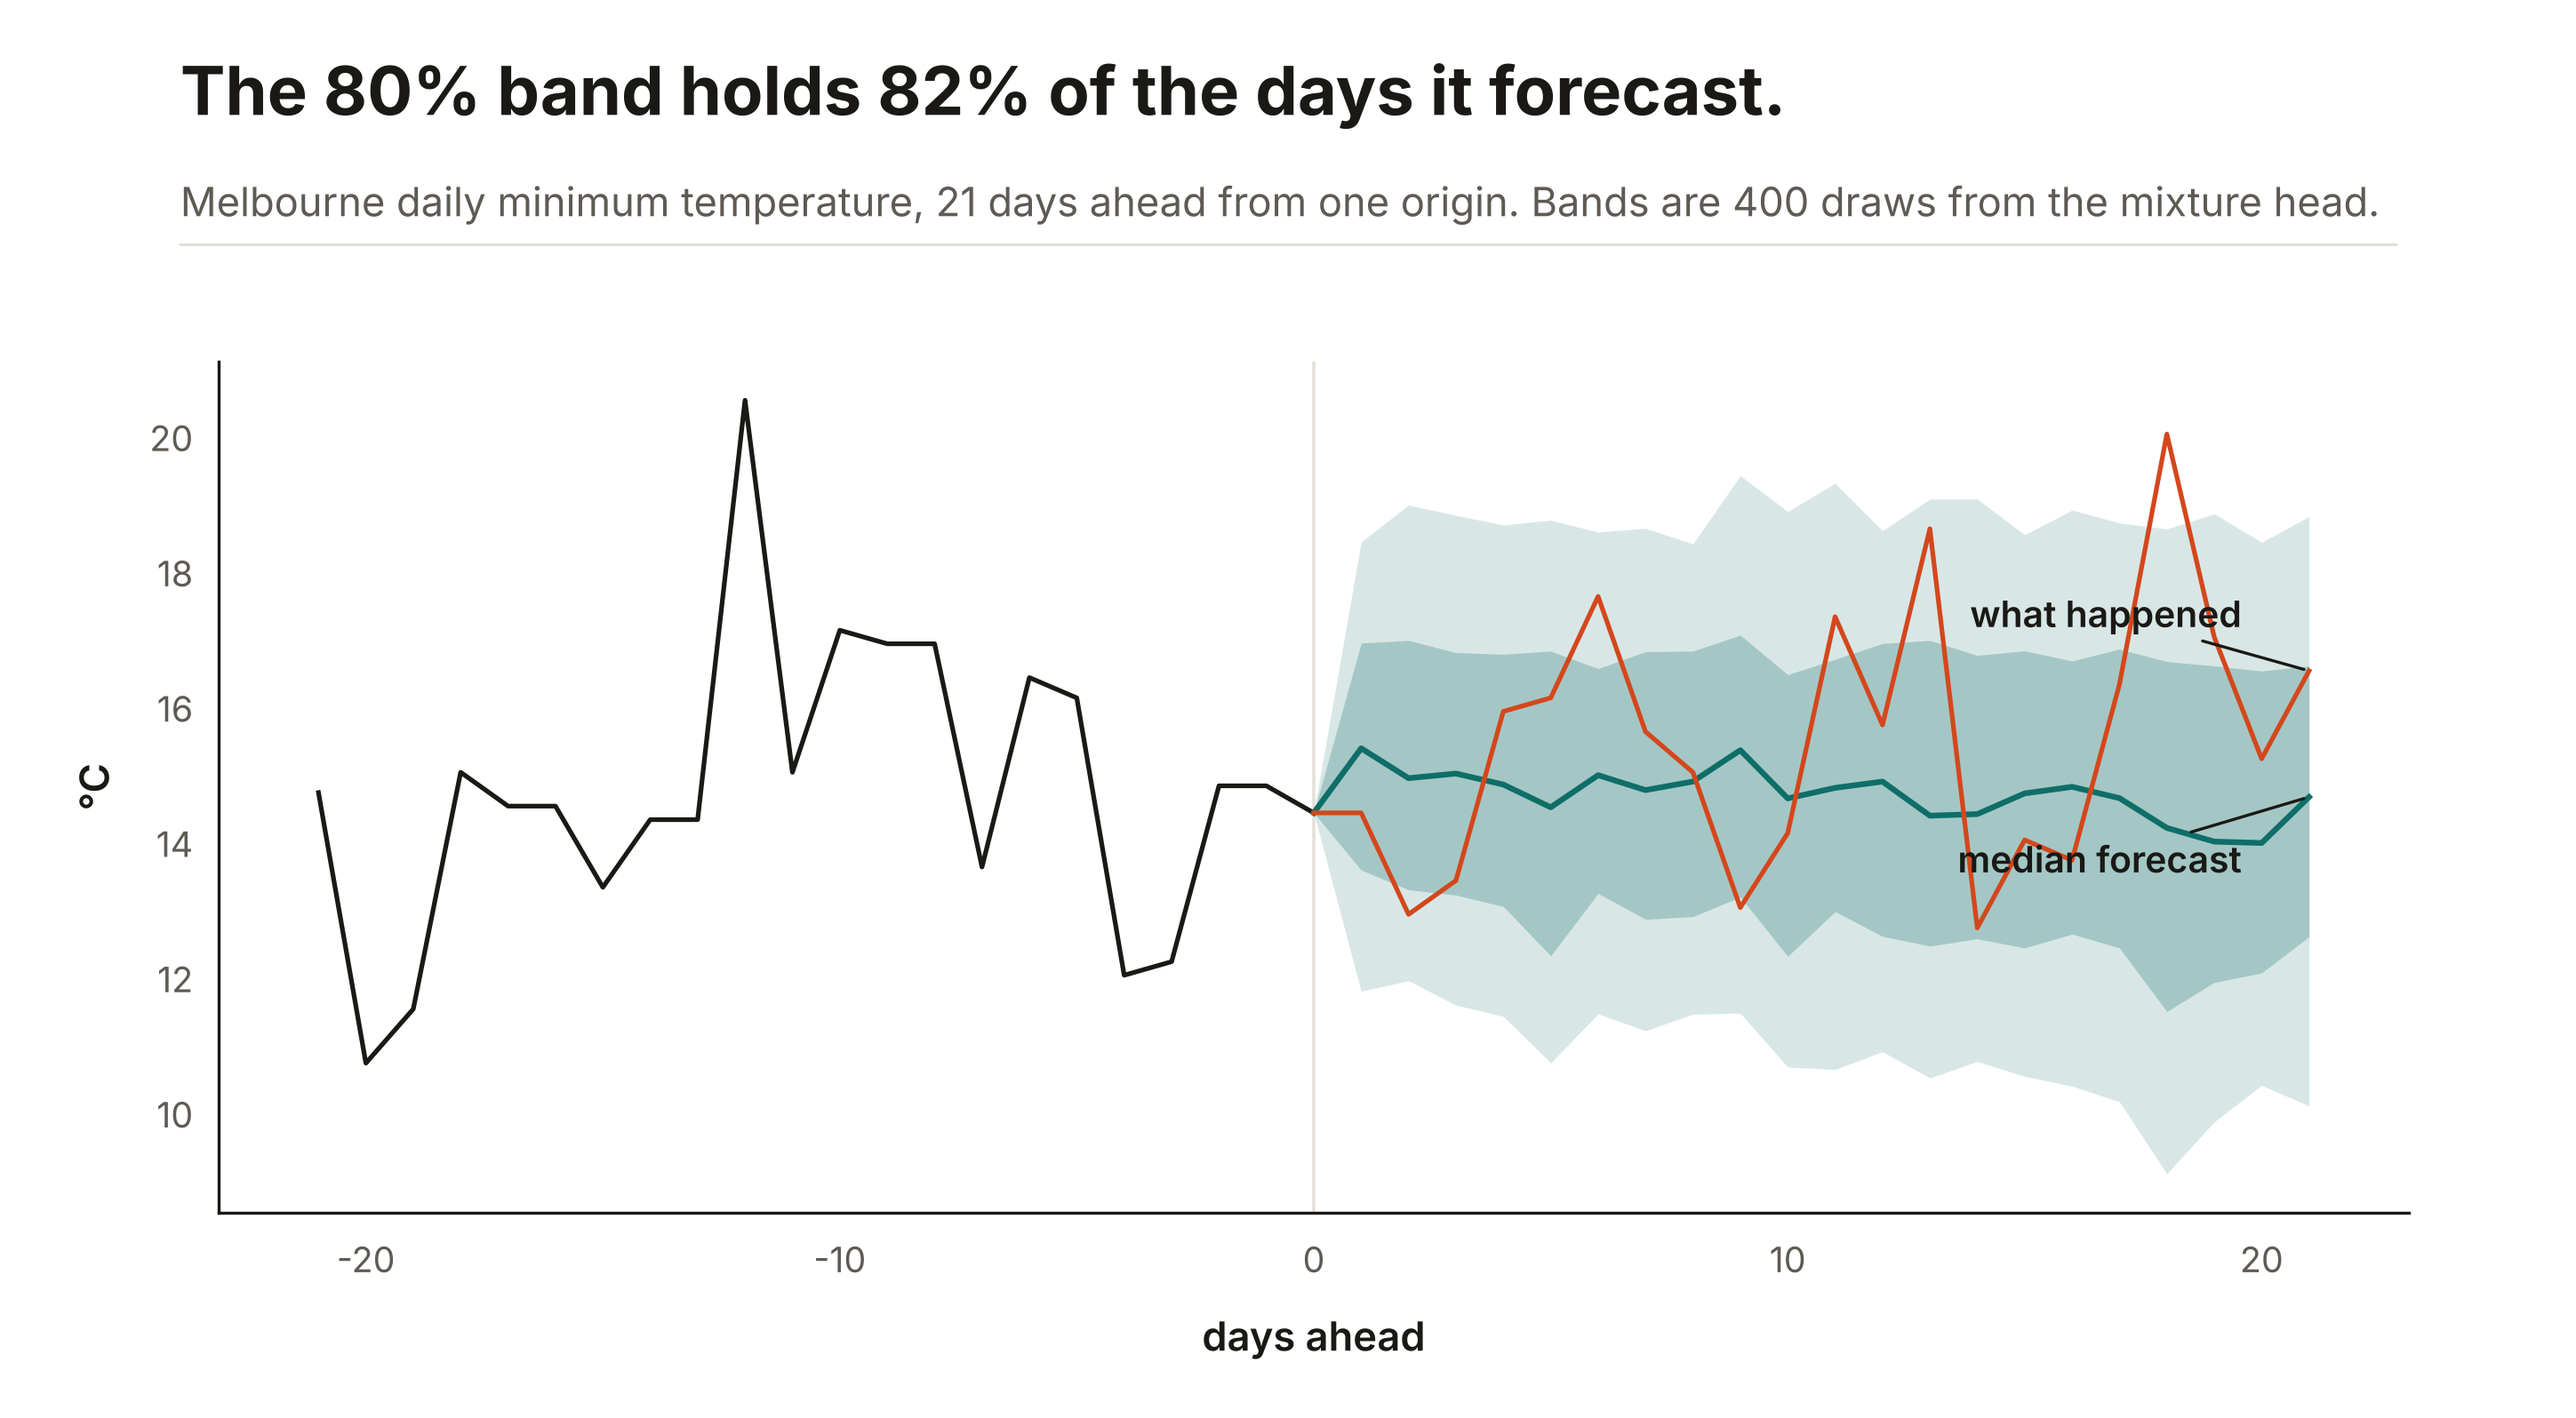
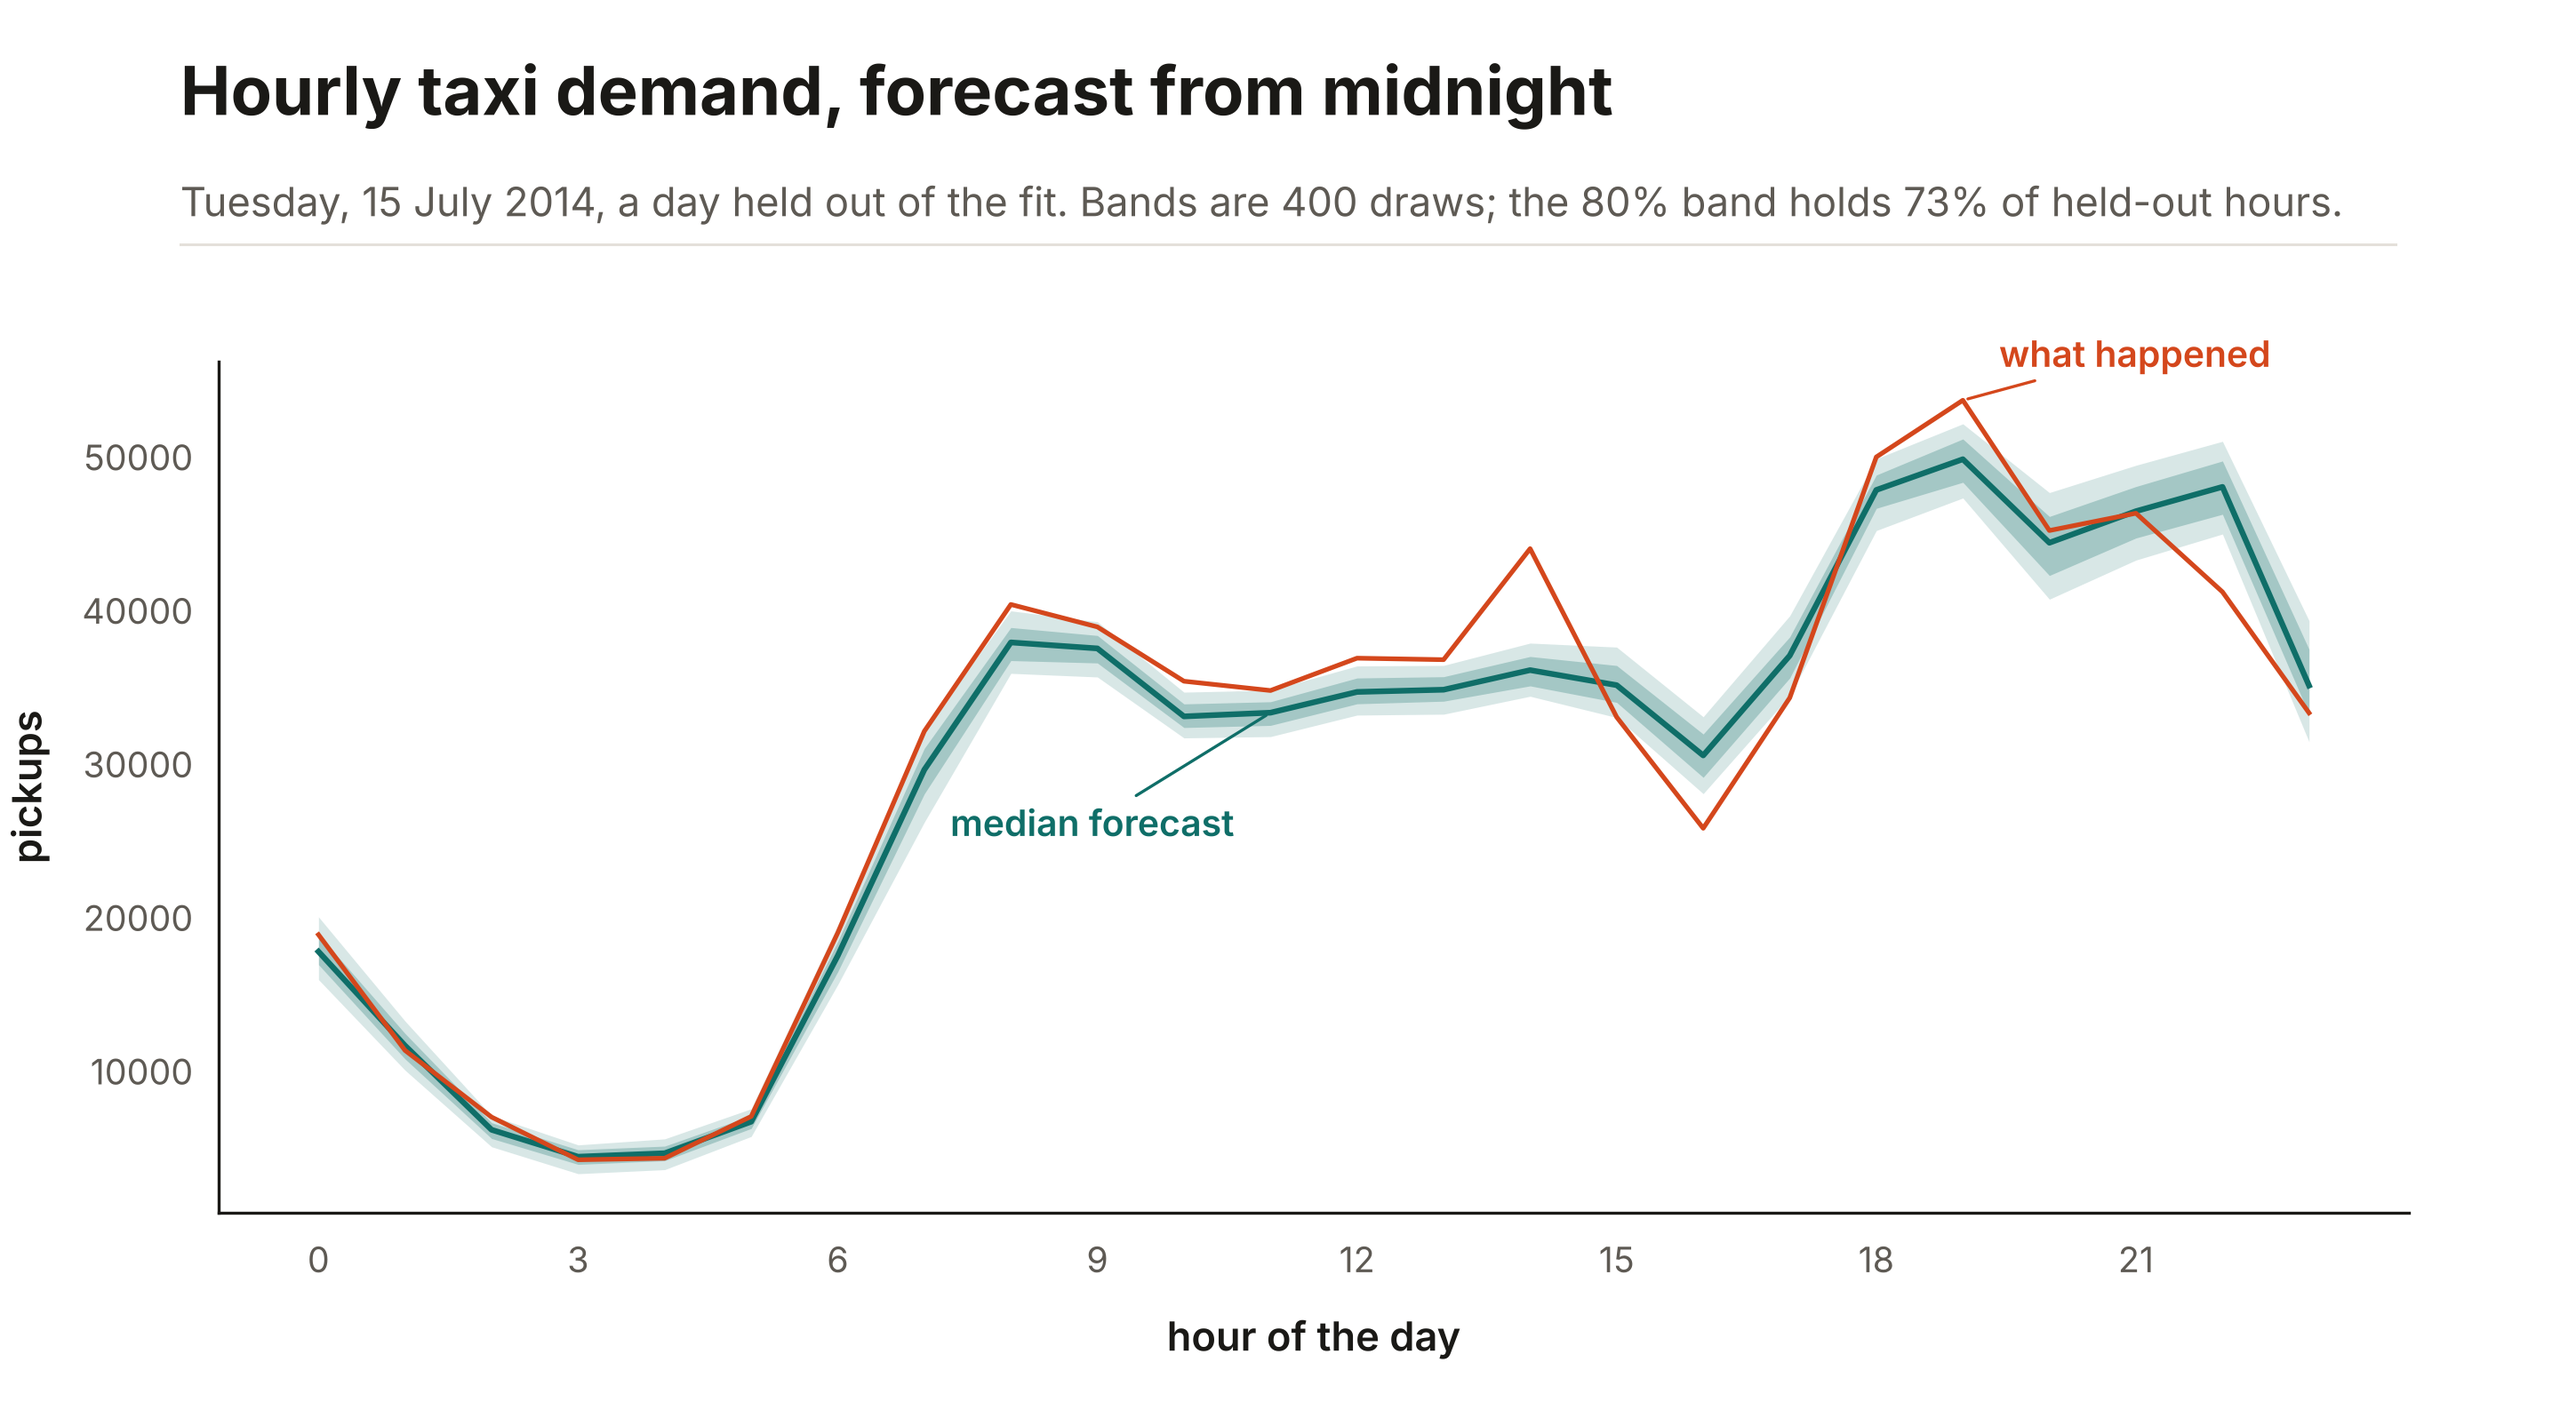
Forecast a whole day of taxi demand instead of a flat temperature fan
The Melbourne 21-day fan was almost a straight line, which showed the
interval but not the model tracking anything. Replace it with hourly NYC
taxi pickups: each row is one hour that reads the previous day's 24 hours,
the same hour a week earlier, and the calendar, so a whole day is forecast
from midnight by one fit. Whole days are held out at random rather than a
trailing split, and the calendar columns are declared cyclic so hours and
days near each other share what the model learns.

Over 34 held-out days the median is off by 2,678 pickups against 3,806 for
the same hour a week earlier, and the 80% interval holds 73% of held-out
hours.

Claude-Session: https://claude.ai/code/session_01Ut1RAijFMiihnm8CQ4vrX3

diff --git a/examples/readme_figures.py b/examples/readme_figures.py
@@ -3,10 +3,14 @@
 ``tip-heads.png``: the average predictive density of four heads on held-out
 NYC taxi tips, over the tips themselves. ``taxi-zones.png``: the learned
 pickup-zone embedding, projected to two dimensions and colored by the
-median trip length from that zone.
+median trip length from that zone. ``fare-heads.png``: four heads on taxi
+fare under three conditions. ``forecast-fan.png``: hourly NYC taxi demand
+over a day held out of the fit. ``outcome-embeddings.png``: pickup-zone
+vectors beside the tip probability they produce.
 All reuse the tables and the fit settings of ``benchmark_readme.py``.
 
     JAX_PLATFORMS=cpu python examples/readme_figures.py
+    JAX_PLATFORMS=cpu python examples/readme_figures.py fan
 """
 
 from __future__ import annotations
@@ -284,61 +288,101 @@ def fare_heads() -> None:
     style._save(fig, "fare-heads.png")
 
 
-FAN_LOOKBACK = 60
-FAN_HORIZON = 21
+FAN_CYCLICAL = {"hour": 24.0, "weekday": 7.0, "day_of_year": 365.25}
+FAN_TEST_SHARE = 6
+
+
+def taxi_demand_rows():
+    """Hourly NYC taxi pickups as a supervised table: a full day forecast from midnight.
+
+    Every row is one hour of one day. The features are the twenty-four hours of the
+    previous day, the same hour a week earlier, and the calendar, so one fit covers
+    all twenty-four steps and nothing after midnight of the forecast day is read.
+    """
+    import pandas as pd
+
+    frame = pd.read_csv(bench._path("nyc_taxi.csv"), parse_dates=["timestamp"])
+    series = frame.set_index("timestamp")["value"].resample("1h").sum()
+    values = series.to_numpy(np.float64)
+    stamps = series.index
+
+    rows, targets, days, hours = [], [], [], []
+    for i in range(168, len(values)):
+        start = i - stamps[i].hour
+        if start - 168 < 0:
+            continue
+        rows.append(np.concatenate([values[start - 24 : start], [values[i - 168]]]))
+        targets.append(values[i])
+        days.append(stamps[i].normalize())
+        hours.append(float(stamps[i].hour))
+
+    table = np.asarray(rows)
+    days = pd.DatetimeIndex(days)
+    columns = {f"lag{24 - k}": table[:, k] for k in range(24)}
+    columns["same_hour_last_week"] = table[:, 24]
+    columns["hour"] = np.asarray(hours)
+    columns["weekday"] = days.dayofweek.to_numpy(np.float64)
+    columns["day_of_year"] = days.dayofyear.to_numpy(np.float64)
+    return pd.DataFrame(columns), np.asarray(targets), days
 
 
 def forecast_fan() -> None:
-    """A 21-day fan from one origin, beside the 80% band's coverage over every test origin."""
+    """A 24-hour fan over one held-out day, beside the 80% band's coverage over every held-out day."""
     import pandas as pd
 
-    from ashlar import ASRForecaster
+    from ashlar import tabm_piecewise
 
-    values = pd.read_csv(bench._path("temperatures.csv"))["Temp"].to_numpy(np.float64)
-    cut = int(len(values) * 0.8)
-    model = ASRForecaster(lookback=FAN_LOOKBACK, horizon=FAN_HORIZON, head="mixture", random_state=0)
-    model.fit(values[:cut])
+    frame, y, days = taxi_demand_rows()
+    calendar = days.unique()
+    rng = np.random.default_rng(0)
+    chosen = rng.choice(calendar, size=len(calendar) // FAN_TEST_SHARE, replace=False)
+    held_out = set(pd.DatetimeIndex(chosen))
+    mask = np.array([day in held_out for day in days])
 
-    origins = np.arange(cut, len(values) - FAN_HORIZON)
-    histories = np.stack([values[origin - FAN_LOOKBACK : origin] for origin in origins])
-    truths = np.stack([values[origin : origin + FAN_HORIZON] for origin in origins])
-    draws = np.asarray(model.sample(histories, 0, n=400))
+    model = tabm_piecewise(task="mixture", cyclical=FAN_CYCLICAL, random_state=0)
+    model.fit(frame[~mask], y[~mask])
+    draws = np.asarray(model.sample(frame[mask], n=400, seed=0))
     low, high = np.percentile(draws, [10, 90], axis=0)
-    covered = float(np.mean((truths >= low) & (truths <= high)))
-    width = float(np.mean(high - low))
-    print(f"coverage_80 {covered:.4f} mean_width {width:.3f}", flush=True)
+    truth = y[mask]
+    median = np.median(draws, axis=0)
+    covered = float(np.mean((truth >= low) & (truth <= high)))
+    naive = frame[mask]["same_hour_last_week"].to_numpy(np.float64)
+    print(
+        f"test_days {len(held_out)} rows {int(mask.sum())} coverage_80 {covered:.4f} "
+        f"corr {np.corrcoef(median, truth)[0, 1]:.3f} MAE {np.mean(np.abs(median - truth)):.0f} "
+        f"seasonal_naive_MAE {np.mean(np.abs(naive - truth)):.0f}",
+        flush=True,
+    )
 
-    pick = int(np.argmax(origins >= cut + 400))
-    fan = draws[:, pick, :]
-    days = np.arange(1, FAN_HORIZON + 1)
+    # One held-out day, drawn in order: the twenty-four hours as the model saw them from midnight.
+    test_days = days[mask]
+    swing = {day: float(np.ptp(truth[test_days == day])) for day in sorted(held_out)}
+    full = [day for day in sorted(held_out) if int(np.sum(test_days == day)) == 24]
+    pick = max(full, key=lambda day: swing[day])
+    where = np.flatnonzero(test_days == pick)
+    order = np.argsort(frame[mask]["hour"].to_numpy()[where])
+    where = where[order]
+    fan = draws[:, where]
+
+    hours = np.arange(24)
     fig, ax = style._chart(
-        f"The 80% band holds {covered:.0%} of the days it forecast.",
-        "Melbourne daily minimum temperature, 21 days ahead from one origin. Bands are 400 draws from the mixture head.",
+        "Hourly taxi demand, forecast from midnight",
+        f"{pick:%A, %-d %B %Y}, a day held out of the fit. Bands are 400 draws; "
+        f"the 80% band holds {covered:.0%} of held-out hours.",
         height=7.6,
     )
-    past = np.arange(-21, 1)
-    ax.plot(past, values[origins[pick] - 21 : origins[pick] + 1], color=style.INK, linewidth=1.8, zorder=4)
-    # The fan starts at the last observed day, so the bands leave the history rather than float beside it.
-    last = float(values[origins[pick]])
-    joined = np.concatenate([[0], days])
     for lo, hi, alpha in ((10, 90, 0.16), (25, 75, 0.26)):
         band_low, band_high = np.percentile(fan, [lo, hi], axis=0)
-        ax.fill_between(
-            joined,
-            np.concatenate([[last], band_low]),
-            np.concatenate([[last], band_high]),
-            color=style.TEAL,
-            alpha=alpha,
-            linewidth=0,
-            zorder=2,
-        )
-    ax.plot(joined, np.concatenate([[last], np.median(fan, axis=0)]), color=style.TEAL, linewidth=2.2, zorder=5)
-    ax.plot(joined, np.concatenate([[last], truths[pick]]), color=style.CLAY, linewidth=1.8, zorder=6)
-    style._callout(ax, (days[-1], truths[pick][-1]), -26, 22, "what happened", ha="right")
-    style._callout(ax, (days[-1], float(np.median(fan, axis=0)[-1])), -26, -24, "median forecast", ha="right")
-    ax.set_xlabel("days ahead", fontproperties=style.AXIS, color=style.INK, labelpad=12)
-    ax.set_ylabel("°C", fontproperties=style.AXIS, color=style.INK, labelpad=12)
-    ax.axvline(0, color=style.HAIR, linewidth=1.2, zorder=1)
+        ax.fill_between(hours, band_low, band_high, color=style.TEAL, alpha=alpha, linewidth=0, zorder=2)
+    ax.plot(hours, np.median(fan, axis=0), color=style.TEAL, linewidth=2.2, zorder=5)
+    ax.plot(hours, truth[where], color=style.CLAY, linewidth=1.8, zorder=6)
+    peak = int(np.argmax(truth[where]))
+    style._callout(ax, (hours[peak], float(truth[where][peak])), 14, 18, "what happened", style.CLAY)
+    median_day = np.median(fan, axis=0)
+    style._callout(ax, (hours[11], float(median_day[11])), -14, -34, "median forecast", style.TEAL, ha="right", va="top")
+    ax.set_xlabel("hour of the day", fontproperties=style.AXIS, color=style.INK, labelpad=12)
+    ax.set_ylabel("pickups", fontproperties=style.AXIS, color=style.INK, labelpad=12)
+    ax.set_xticks(np.arange(0, 24, 3))
     style._save(fig, "forecast-fan.png")
 
 

diff --git a/examples/benchmark_readme.py b/examples/benchmark_readme.py
@@ -62,6 +62,7 @@ SOURCES = {
     "adult.csv": f"{RAW}/jbrownlee/Datasets/master/adult-all.csv",
     "ames.csv": f"{RAW}/wblakecannon/ames/master/data/housing.csv",
     "temperatures.csv": f"{RAW}/jbrownlee/Datasets/master/daily-min-temperatures.csv",
+    "nyc_taxi.csv": f"{RAW}/numenta/NAB/master/data/realKnownCause/nyc_taxi.csv",
 }
 N_DRAWS = 400
 Z80 = 1.2815515655446004

diff --git a/README.md b/README.md
@@ -82,17 +82,30 @@ One fit per head on taxi fares, given the zones, the hour, the weekday, the pass
 
 ## Forecasting
 
+A series reaches Ashlar two ways. `ASRForecaster` reads a window of the series itself and emits the next steps:
+
 ```python
 from ashlar import ASRForecaster
 
-model = ASRForecaster(lookback=48, horizon=1, head="mixture").fit(series)
+model = ASRForecaster(lookback=48, horizon=24, head="mixture").fit(series)
 model.predict(history)                     # one point per horizon step
 model.sample(history, key, n=1000)         # draws
 ```
 
-![A 21-day forecast fan on Melbourne daily minimum temperature.](docs/images/forecast-fan.png)
+Or the series is already a table of lags and calendar columns, and every tabular head applies to it. `cyclical=` turns a calendar column into a sine and a cosine, so hour 23 sits beside hour 0 and days near each other in the year share what the model learns about them:
 
-The forecasters take the same heads by name, so a forecast is a distribution per step rather than a line. `ASRHistoryForecaster` reads the whole prefix instead of a window. [docs/forecast.md](docs/forecast.md) covers both, call by call.
+```python
+from ashlar import tabm_piecewise
+
+model = tabm_piecewise(task="mixture", cyclical={"hour": 24.0, "weekday": 7.0, "day_of_year": 365.25})
+model.fit(lags, pickups)
+```
+
+![Hourly taxi demand over a held-out day, with the 80% band around the median forecast.](docs/images/forecast-fan.png)
+
+Hourly NYC taxi pickups, July 2014 to January 2015. Each row is one hour, and reads the 24 hours of the previous day, the same hour a week earlier, and the calendar. A sixth of the days were held out whole, so each is forecast 1 to 24 hours ahead from midnight, by one fit rather than one model per step. Over the 34 held-out days the median forecast is off by 2,678 pickups on average, against 3,806 for the same hour a week earlier, and the 80% interval holds 73% of held-out hours.
+
+`ASRHistoryForecaster` reads the whole prefix instead of a window. [docs/forecast.md](docs/forecast.md) covers both, call by call.
 
 ## Nested outcomes as a tree of labels
 
